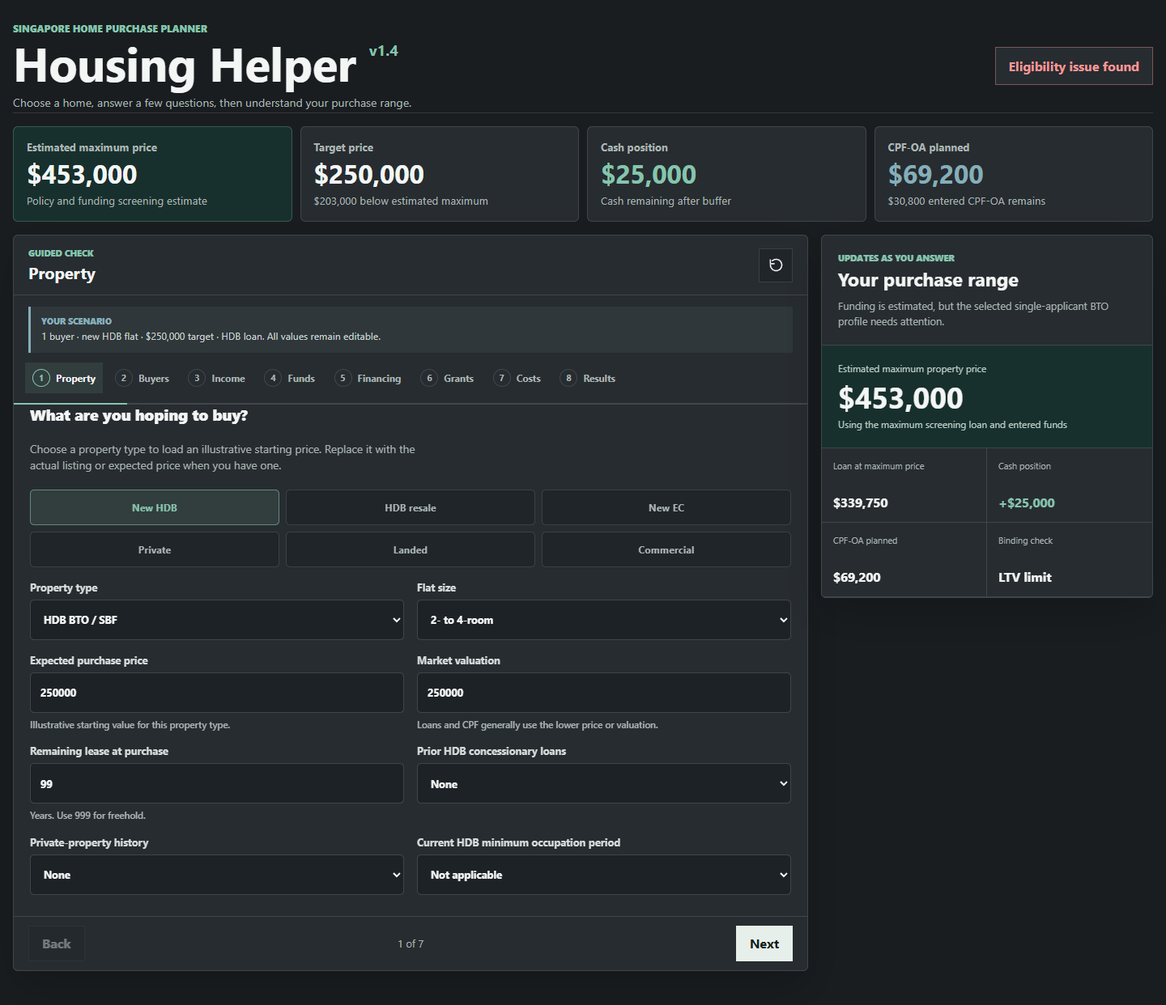
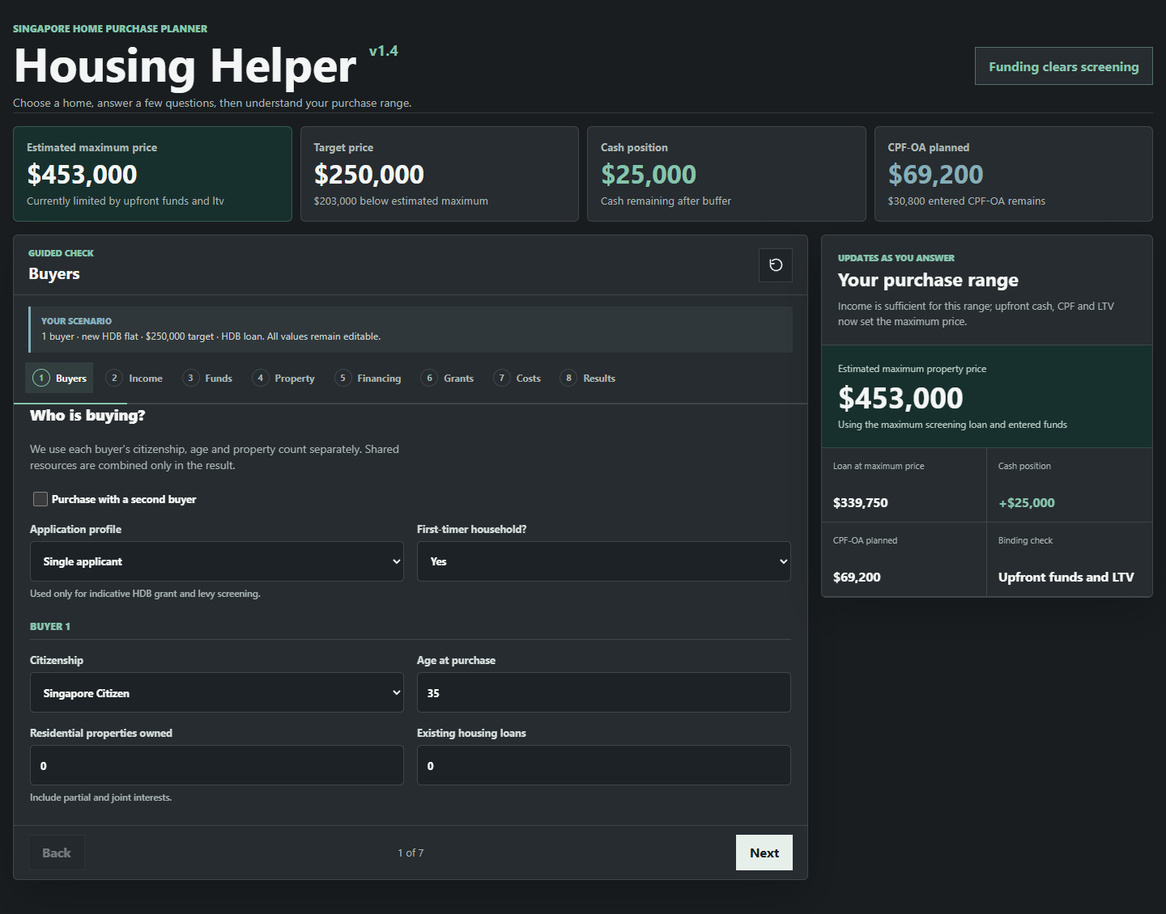
Clarify mortgage assessment and repayment rates

diff --git a/app.js b/app.js
@@ -140,7 +140,7 @@ function grantEstimate(input) {
   const ehgCeiling = single ? 4500 : 9000;
   if (hdbPurchase && firstTimer && citizenshipEligible && hh.grossIncome <= ehgCeiling) ehgPotential = single ? singleEhgAmount(hh.grossIncome) : ehgAmount(hh.grossIncome);
   if (input.propertyType === "hdbResale" && firstTimer && citizenshipEligible) {
-    const ceiling = single ? 7000 : input.applicantProfile === "jointSingles" ? 14000 : 14000;
+    const ceiling = single ? 8000 : 16000;
     if (hh.grossIncome <= ceiling) resaleGrantPotential = single ? (input.flatSize === "small" ? 40000 : 25000) : (input.flatSize === "small" ? 80000 : 50000);
     const citizenships = hh.buyers.map((buyer) => buyer.citizenship);
     if (resaleGrantPotential && citizenships.includes("sc") && citizenships.includes("spr")) {
@@ -270,6 +270,7 @@ function routeAssessment(input, route) {
       }
     }
   } else {
+    assessmentRate = Math.max(assessmentRate, .04);
     const threshold = hdbProperty ? 30 : 35;
     const longLoan = input.loanTenure > threshold || buyers(input).some((buyer) => buyer.age + input.loanTenure > 65);
     const loanCount = hh.housingLoans;
@@ -390,7 +391,8 @@ function financeCard(route, selected) {
   const names = { bank: "Bank loan", hdb: "HDB loan", cash: "No loan" };
   const pros = route.route === "hdb" ? "Stable concessionary rate; no early repayment penalty" : route.route === "bank" ? "Fixed or floating packages; available across residential types" : "No interest or mortgage approval";
   const limits = route.route === "hdb" ? "HDB eligibility, income, age, lease and HFE rules" : route.route === "bank" ? "LTV, TDSR/MSR, credit checks, lock-ins and rate changes" : "Largest upfront funding requirement";
-  return `<article class="finance-card ${selected ? "selected" : ""} ${route.available ? "" : "unavailable"}"><div><span>${names[route.route]}</span><em>${route.status}</em></div><strong>${money(route.maximumLoan)}</strong><small>Maximum loan for current target</small><dl><dt>Expected payment</dt><dd>${money(route.expectedPayment)}/mo</dd><dt>Useful because</dt><dd>${pros}</dd><dt>Watch for</dt><dd>${limits}</dd></dl></article>`;
+  const repaymentLabel = route.route === "cash" ? "Monthly repayment" : `Repayment at ${(route.actualRate * 100).toFixed(2)}%`;
+  return `<article class="finance-card ${selected ? "selected" : ""} ${route.available ? "" : "unavailable"}"><div><span>${names[route.route]}</span><em>${route.status}</em></div><strong>${money(route.maximumLoan)}</strong><small>Maximum loan for current target</small><dl><dt>${repaymentLabel}</dt><dd>${money(route.expectedPayment)}/mo</dd><dt>Useful because</dt><dd>${pros}</dd><dt>Watch for</dt><dd>${limits}</dd></dl></article>`;
 }
 
 function policyCard(title, value, description, href, source) {
@@ -409,7 +411,8 @@ function render() {
   const maximumUsableLoan = ceiling > 0 ? ceilingOutput.selected.loan : 0;
   const priceDelta = input.purchasePrice - ceiling;
   const binding = output.selected.route === "cash" ? "No loan" : output.selected.ltvCap <= output.selected.servicingCap ? "LTV limit" : "Servicing limit";
-  const singleBtoIssue = input.propertyType === "hdbBto" && input.applicantProfile === "single" && (output.hh.grossIncome > 7000 || input.flatSize !== "small");
+  const maximumConstraint = !output.selected.available ? output.selected.status : ceilingOutput.selected.route === "cash" ? "Available cash and CPF" : ceilingOutput.selected.servicingCap <= ceilingOutput.selected.ltvCap + 1000 ? "Income and debt capacity" : "Upfront funds and LTV";
+  const singleBtoIssue = input.propertyType === "hdbBto" && input.applicantProfile === "single" && (output.hh.grossIncome > 8000 || input.flatSize !== "small");
   document.body.classList.toggle("has-second-buyer", input.hasSecondBuyer);
   document.body.classList.toggle("is-hdb", hdbTypes.has(input.propertyType));
   document.body.classList.toggle("is-resale", input.propertyType === "hdbResale");
@@ -448,7 +451,7 @@ function render() {
   $("grantNotice").textContent = output.grants.total > 0 ? `${money(output.grants.total)} in selected indicative grants is included in this projection.` : "No indicative grant is currently included. Your HFE letter remains the source of truth.";
 
   $("maxPrice").textContent = money(ceiling);
-  $("maxPriceReason").textContent = output.selected.available ? "Policy and funding screening estimate" : output.selected.status;
+  $("maxPriceReason").textContent = output.selected.available ? `Currently limited by ${maximumConstraint.toLowerCase()}` : output.selected.status;
   $("summaryTargetPrice").textContent = money(input.purchasePrice);
   $("targetVsMax").textContent = priceDelta > 0 ? `${money(priceDelta)} above estimated maximum` : `${money(Math.abs(priceDelta))} below estimated maximum`;
   $("cashGap").textContent = money(Math.abs(output.cashSurplus));
@@ -467,8 +470,8 @@ function render() {
   $("liveCashPosition").textContent = `${output.cashSurplus >= 0 ? "+" : "-"}${money(Math.abs(output.cashSurplus))}`;
   $("liveCashPosition").className = output.cashSurplus >= 0 ? "positive" : "negative";
   $("liveCpfPlanned").textContent = money(output.cpfBalanceUsed);
-  $("liveConstraint").textContent = binding;
-  $("liveStatus").textContent = !output.selected.available ? output.selected.reason : singleBtoIssue ? "Funding is estimated, but the selected single-applicant BTO profile needs attention." : output.cashSurplus < 0 ? `${money(-output.cashSurplus)} more cash is needed for the current target.` : `${money(output.cashSurplus)} remains after your selected buffer.`;
+  $("liveConstraint").textContent = maximumConstraint;
+  $("liveStatus").textContent = !output.selected.available ? output.selected.reason : singleBtoIssue ? `Funding is estimated, but the BTO profile needs attention. Maximum price is limited by ${maximumConstraint.toLowerCase()}.` : maximumConstraint === "Income and debt capacity" ? "Income and monthly debts currently set the maximum price." : "Income is sufficient for this range; upfront cash, CPF and LTV now set the maximum price.";
 
   const viable = output.viable;
   $("overallStatus").textContent = !output.selected.available ? output.selected.status : singleBtoIssue ? "Eligibility issue found" : viable ? "Funding clears screening" : "Funding gap found";
@@ -477,7 +480,7 @@ function render() {
   $("diagnosisDetail").textContent = !output.selected.available
     ? output.selected.reason
     : singleBtoIssue
-      ? `${money(output.hh.grossIncome)} monthly income is above the current $7,000 screen for a single applicant buying a 99-year 2-room Flexi BTO. Funding figures remain illustrative.`
+      ? `${money(output.hh.grossIncome)} monthly income is above the current $8,000 screen for a single applicant buying a 99-year 2-room Flexi BTO. Funding figures remain illustrative.`
     : viable
       ? `${money(output.cashSurplus)} cash remains after the selected buffers. Your screening ceiling is ${money(ceiling)}.`
       : `The entered target is ${money(Math.max(0, priceDelta))} above the estimated maximum and needs ${money(Math.max(0, -output.cashSurplus))} more upfront cash under these assumptions.`;
@@ -505,11 +508,11 @@ function render() {
     row("Servicing cap", money(output.selected.servicingCap)),
     row("Maximum loan for current target", money(output.selected.maximumLoan)),
     row("Maximum loan at estimated property limit", money(maximumUsableLoan)),
-    row("Expected monthly instalment", money(output.selected.expectedPayment)),
-    row("Assessment monthly instalment", money(output.selected.assessedPayment)),
+    row(`Estimated monthly repayment at ${(output.selected.actualRate * 100).toFixed(2)}%`, `${money(output.selected.expectedPayment)}/month`),
+    row(`Eligibility-only repayment test at ${(output.selected.assessmentRate * 100).toFixed(2)}%`, `${money(output.selected.assessedPayment)}/month`),
     row("Tenure used", `${output.selected.tenure || 0} years`)
   ].join("");
-  $("loanNotice").textContent = `${output.selected.reason}. The ${(output.selected.actualRate * 100).toFixed(2)}% expected rate is an editable planning assumption, not a lender quote. The ${(output.selected.assessmentRate * 100).toFixed(2)}% rate is used for eligibility screening. Self-employed income recognition is your scenario assumption, not a universal lender haircut.`;
+  $("loanNotice").textContent = `${output.selected.reason}. Your estimated monthly repayment uses the ${(output.selected.actualRate * 100).toFixed(2)}% actual mortgage-rate assumption. The ${(output.selected.assessmentRate * 100).toFixed(2)}% stress-test rate is used only for eligibility screening and is not the rate charged on the loan. Self-employed income recognition is your scenario assumption, not a universal lender haircut.`;
 
   $("policyRows").innerHTML = [
     policyCard("Indicative housing grants", money(output.grants.total), `EHG ${money(output.grants.ehg)}, resale grant ${money(output.grants.resaleGrant)}, proximity grant ${money(output.grants.proximityGrant)}. Final eligibility comes from HFE.`, "https://www.hdb.gov.sg/buying-a-flat/flat-grant-and-loan-eligibility", "HDB grants and eligibility"),
@@ -533,9 +536,9 @@ function render() {
     eligibility.push(check("HDB property history", input.privatePropertyStatus === "none" || input.privatePropertyStatus === "cleared" ? "pass" : "fail", input.privatePropertyStatus === "recent" ? "A 30-month disposal period is screened; confirm the applicable flat classification and exceptions through HFE." : input.privatePropertyStatus === "current" ? "A current private-property interest generally prevents this HDB loan or grant screen." : "No current disqualifying private-property history was declared."));
     eligibility.push(check("Prior HDB loans and MOP", Number(input.priorHdbLoans) < 2 && input.mopStatus !== "notMet" ? "pass" : "fail", `${input.priorHdbLoans} prior HDB concessionary loan(s) declared; MOP status: ${input.mopStatus === "na" ? "not applicable" : input.mopStatus === "met" ? "completed" : "not completed"}.`));
   }
-  if (input.propertyType === "hdbBto" && input.applicantProfile === "single") eligibility.push(check("Single-applicant BTO income ceiling", output.hh.grossIncome <= 7000 ? "pass" : "fail", `${money(output.hh.grossIncome)} entered against the current $7,000 screen for a 99-year 2-room Flexi flat. Confirm the project and flat type through HFE.`));
+  if (input.propertyType === "hdbBto" && input.applicantProfile === "single") eligibility.push(check("Single-applicant BTO income ceiling", output.hh.grossIncome <= 8000 ? "pass" : "fail", `${money(output.hh.grossIncome)} entered against the current $8,000 screen for a 99-year 2-room Flexi flat. Confirm the project and flat type through HFE.`));
   if (!hdbTypes.has(input.propertyType) && input.mopStatus !== "na") eligibility.push(check("Current HDB MOP", input.mopStatus === "met" ? "pass" : "fail", input.mopStatus === "met" ? "Completed, based on your declaration." : "A further residential purchase is generally not available before completing the MOP."));
-  if (input.propertyType === "ec") eligibility.push(check("New EC income ceiling", output.hh.grossIncome <= 16000 ? "pass" : "fail", `${money(output.hh.grossIncome)} gross monthly household income entered against the $16,000 screen. Other EC scheme conditions still require HFE.`));
+  if (input.propertyType === "ec") eligibility.push(check("New EC income ceiling", output.hh.grossIncome <= 18000 ? "pass" : "fail", `${money(output.hh.grossIncome)} gross monthly household income entered against the $18,000 screen for qualifying new EC launches from 24 August 2026. Earlier projects may retain the $16,000 ceiling; confirm through HFE.`));
   $("eligibilityRows").innerHTML = eligibility.join("");
   $("eligibilityNotice").textContent = "This is a planning screen, not an approval. Family nucleus, first-timer status, prior subsidies, disposal waiting periods, MOP, credit assessment, ABSD remissions and exact CPF limits require official confirmation.";
 }

diff --git a/index.html b/index.html
@@ -25,29 +25,14 @@
     <section class="workspace">
       <form class="panel inputs" id="plannerForm" novalidate>
         <div class="panel-head">
-          <div><p class="panel-kicker">Guided check</p><h2 id="stepTitle">Property</h2></div>
+          <div><p class="panel-kicker">Guided check</p><h2 id="stepTitle">Buyers</h2></div>
           <button type="button" class="icon-button" id="resetBtn" title="Reset sample profile" aria-label="Reset sample profile"><svg viewBox="0 0 24 24" aria-hidden="true"><path d="M3 12a9 9 0 1 0 3-6.7"/><path d="M3 4v6h6"/></svg></button>
         </div>
         <div class="scenario-note"><span>Your scenario</span><p id="scenarioSummary">One buyer planning an HDB purchase.</p></div>
         <nav class="step-rail" id="stepRail" aria-label="Planner steps"></nav>
         <div class="step-progress"><span id="progressBar"></span></div>
 
-        <fieldset class="step-card active" data-step-title="Property">
-          <legend>What are you hoping to buy?</legend>
-          <p class="section-copy wide">Choose a property type to load an illustrative starting price. Replace it with the actual listing or expected price when you have one.</p>
-          <div class="choice-grid property-choices wide" role="group" aria-label="Property type shortcuts"><button type="button" data-property="hdbBto">New HDB</button><button type="button" data-property="hdbResale">HDB resale</button><button type="button" data-property="ec">New EC</button><button type="button" data-property="privateCondo">Private</button><button type="button" data-property="landed">Landed</button><button type="button" data-property="commercial">Commercial</button></div>
-          <label>Property type<select id="propertyType"><option value="hdbBto">HDB BTO / SBF</option><option value="hdbResale">HDB resale flat</option><option value="ec">New executive condominium</option><option value="privateCondo">Private condominium / apartment</option><option value="landed">Landed residential</option><option value="commercial">Commercial / industrial</option><option value="mixed">Mixed commercial and residential</option></select></label>
-          <label class="hdb-field">Flat size<select id="flatSize"><option value="small">2- to 4-room</option><option value="large">5-room or larger</option></select></label>
-          <label>Expected purchase price<input id="purchasePrice" type="number" min="0" step="1000" value="250000"><small id="pricePresetNote">Illustrative starting value for this property type.</small></label>
-          <label>Market valuation<input id="marketValue" type="number" min="0" step="1000" value="250000"><small>Loans and CPF generally use the lower price or valuation.</small></label>
-          <label>Remaining lease at purchase<input id="remainingLease" type="number" min="0" max="999" step="1" value="99"><small>Years. Use 999 for freehold.</small></label>
-          <label class="mixed-field">Residential value share<input id="residentialShare" type="range" min="0" max="100" step="5" value="100"><span class="range-readout" id="residentialShareReadout">100%</span></label>
-          <label class="hdb-field">Prior HDB concessionary loans<select id="priorHdbLoans"><option value="0">None</option><option value="1">One</option><option value="2">Two or more</option></select></label>
-          <label class="hdb-field">Private-property history<select id="privatePropertyStatus"><option value="none">None</option><option value="current">Currently own an interest</option><option value="recent">Disposed within the last 30 months</option><option value="cleared">Disposed more than 30 months ago</option></select></label>
-          <label>Current HDB minimum occupation period<select id="mopStatus"><option value="na">Not applicable</option><option value="met">Completed</option><option value="notMet">Not completed</option></select></label>
-        </fieldset>
-
-        <fieldset class="step-card" data-step-title="Buyers">
+        <fieldset class="step-card active" data-step-title="Buyers">
           <legend>Who is buying?</legend>
           <p class="section-copy wide">We use each buyer's citizenship, age and property count separately. Shared resources are combined only in the result.</p>
           <label class="check-row wide"><input id="hasSecondBuyer" type="checkbox"> Purchase with a second buyer</label>
@@ -103,14 +88,29 @@
           <label class="buyer2-input">Net sale proceeds<input id="saleProceeds2" type="number" min="0" step="1000" value="0"></label>
         </fieldset>
 
+        <fieldset class="step-card" data-step-title="Property">
+          <legend>What are you hoping to buy?</legend>
+          <p class="section-copy wide">Your profile and resources have shaped the live range. Now choose a property type and replace the illustrative price with an actual listing when you have one.</p>
+          <div class="choice-grid property-choices wide" role="group" aria-label="Property type shortcuts"><button type="button" data-property="hdbBto">New HDB</button><button type="button" data-property="hdbResale">HDB resale</button><button type="button" data-property="ec">New EC</button><button type="button" data-property="privateCondo">Private</button><button type="button" data-property="landed">Landed</button><button type="button" data-property="commercial">Commercial</button></div>
+          <label>Property type<select id="propertyType"><option value="hdbBto">HDB BTO / SBF</option><option value="hdbResale">HDB resale flat</option><option value="ec">New executive condominium</option><option value="privateCondo">Private condominium / apartment</option><option value="landed">Landed residential</option><option value="commercial">Commercial / industrial</option><option value="mixed">Mixed commercial and residential</option></select></label>
+          <label class="hdb-field">Flat size<select id="flatSize"><option value="small">2- to 4-room</option><option value="large">5-room or larger</option></select></label>
+          <label>Expected purchase price<input id="purchasePrice" type="number" min="0" step="1000" value="250000"><small id="pricePresetNote">Illustrative starting value for this property type.</small></label>
+          <label>Market valuation<input id="marketValue" type="number" min="0" step="1000" value="250000"><small>Loans and CPF generally use the lower price or valuation.</small></label>
+          <label>Remaining lease at purchase<input id="remainingLease" type="number" min="0" max="999" step="1" value="99"><small>Years. Use 999 for freehold.</small></label>
+          <label class="mixed-field">Residential value share<input id="residentialShare" type="range" min="0" max="100" step="5" value="100"><span class="range-readout" id="residentialShareReadout">100%</span></label>
+          <label class="hdb-field">Prior HDB concessionary loans<select id="priorHdbLoans"><option value="0">None</option><option value="1">One</option><option value="2">Two or more</option></select></label>
+          <label class="hdb-field">Private-property history<select id="privatePropertyStatus"><option value="none">None</option><option value="current">Currently own an interest</option><option value="recent">Disposed within the last 30 months</option><option value="cleared">Disposed more than 30 months ago</option></select></label>
+          <label>Current HDB minimum occupation period<select id="mopStatus"><option value="na">Not applicable</option><option value="met">Completed</option><option value="notMet">Not completed</option></select></label>
+        </fieldset>
+
         <fieldset class="step-card" data-step-title="Financing">
           <legend>Financing route</legend>
           <p class="section-copy wide">Compare an HDB concessionary loan, bank loan and no-loan route. Unsupported routes are shown as unavailable rather than silently substituted.</p>
           <div class="choice-grid finance-choices wide" role="group" aria-label="Financing route shortcuts"><button type="button" data-loan="bank">Bank loan</button><button type="button" data-loan="hdb">HDB loan</button><button type="button" data-loan="cash">No loan</button></div>
           <label>Selected route<select id="loanType"><option value="bank">Bank / financial institution loan</option><option value="hdb">HDB housing loan</option><option value="cash">No loan</option></select></label>
           <label>Preferred tenure<input id="loanTenure" type="number" min="1" max="35" step="1" value="25"></label>
-          <label>Expected mortgage rate<input id="actualInterestRate" type="number" min="0" step="0.05" value="2.6"><small>Used for the expected monthly instalment.</small></label>
-          <label>Assessment rate<input id="assessmentRate" type="number" min="0" step="0.05" value="3.0"><small>Used only for servicing-cap screening.</small></label>
+          <label><span class="label-heading">Actual mortgage rate <span class="rate-tag">Repayment</span></span><input id="actualInterestRate" type="number" min="0" step="0.05" value="2.6"><small>Your estimated monthly repayment is calculated at this rate.</small></label>
+          <label><span class="label-heading">Eligibility stress-test rate <span class="help-tooltip" tabindex="0" aria-describedby="assessmentRateTip">i<span class="tooltip-content" id="assessmentRateTip" role="tooltip">This is not the rate charged on your loan. It is used only to test loan eligibility: 3% for an HDB loan and at least 4% for a residential bank loan under the current screening assumptions.</span></span></span><input id="assessmentRate" type="number" min="3" step="0.05" value="3.0"><small>Used only to estimate the maximum loan, not your monthly repayment.</small></label>
           <details class="advanced wide"><summary>Advanced loan preference</summary><div class="advanced-grid"><label>Desired loan amount<input id="desiredLoan" type="number" min="0" step="1000" value="187500"></label><label class="check-row"><input id="useMaxLoan" type="checkbox" checked> Use maximum screening loan</label></div></details>
         </fieldset>
 

diff --git a/tests/browser-check.js b/tests/browser-check.js
@@ -20,10 +20,11 @@ const assert = require("node:assert/strict");
   assert.equal(await page.locator("#purchasePrice").inputValue(), "250000");
   assert.equal(await page.locator("#liveMaxLoan").textContent(), "$339,750");
   assert.equal(await page.locator("#liveMaxPrice").textContent(), "$453,000");
-  assert.equal(await page.locator("#overallStatus").textContent(), "Eligibility issue found");
+  assert.equal(await page.locator("#overallStatus").textContent(), "Funding clears screening");
   assert.equal(await page.locator(".live-preview").isVisible(), true, "quiz shows the live affordability card");
   assert.equal(await page.locator(".results").isVisible(), false, "full analytics wait for the results step");
 
+  await page.locator("#stepRail button").filter({ hasText: "Property" }).click();
   await page.locator("button[data-property='hdbResale']").click();
   assert.equal(await page.locator("#purchasePrice").inputValue(), "550000", "property selection loads its starting price");
   await page.locator("#purchasePrice").fill("600000");
@@ -33,15 +34,19 @@ const assert = require("node:assert/strict");
 
   await page.locator("#stepRail button").filter({ hasText: "Buyers" }).click();
   await page.locator("#hasSecondBuyer").check();
-  assert.equal(await page.locator("#stepCounter").textContent(), "2 of 8");
+  assert.equal(await page.locator("#stepCounter").textContent(), "1 of 8");
   assert.equal(await page.locator("#stepRail button").count(), 9, "second buyer adds one guided step");
   await page.locator("#hasSecondBuyer").uncheck();
 
   await page.locator("#stepRail button").filter({ hasText: "Income" }).click();
+  await page.locator("#monthlyIncome").fill("2000");
+  assert.equal(await page.locator("#liveMaxPrice").textContent(), "$244,000", "maximum price reacts to lower income");
+  assert.equal(await page.locator("#liveConstraint").textContent(), "Income and debt capacity", "income is identified while servicing capacity binds");
+  await page.locator("#monthlyIncome").fill("4000");
+  assert.equal(await page.locator("#liveMaxPrice").textContent(), "$368,000", "maximum price scales as income rises");
   await page.locator("#incomeType").selectOption("selfEmployed");
   assert.equal(await page.locator("#incomeRecognition").inputValue(), "70", "variable income receives an editable planning scenario");
 
-  await page.locator("#monthlyIncome").fill("4000");
   await page.locator("#stepRail button").filter({ hasText: "Property" }).click();
   await page.locator("button[data-property='hdbResale']").click();
   await page.locator("#stepRail button").filter({ hasText: "Grants" }).click();
@@ -62,6 +67,7 @@ const assert = require("node:assert/strict");
   await page.locator("#purchasePrice").dispatchEvent("input");
   await page.locator("button[data-property='privateCondo']").click();
   await page.locator("#stepRail button").filter({ hasText: "Financing" }).click();
+  assert.match(await page.locator("#assessmentRateTip").textContent(), /not the rate charged/i, "stress-test tooltip separates assessment and repayment rates");
   await page.locator("button[data-loan='hdb']").click();
   assert.equal(await page.locator("#loanType").inputValue(), "bank", "invalid HDB route is not silently selected");
   assert.equal(await page.locator("button[data-loan].active").getAttribute("data-loan"), "bank", "financing shortcut matches calculation state");
@@ -71,6 +77,8 @@ const assert = require("node:assert/strict");
   const loanText = await page.locator("#loanRows").innerText();
   assert.match(loanText, /Loan base \(lower price or value\)\s*\$1,000,000/);
   assert.match(loanText, /LTV cap\s*75% · \$750,000/);
+  assert.match(loanText, /Estimated monthly repayment at 3\.00%/);
+  assert.match(loanText, /Eligibility-only repayment test at 4\.00%/);
   assert.equal(await page.locator(".policy-card").count(), 6);
   for (const width of [768, 1024, 1440]) {
     await page.setViewportSize({ width, height: 900 });
@@ -90,6 +98,11 @@ const assert = require("node:assert/strict");
   assert.equal(await mobile.locator(".results").isVisible(), false, "mobile results wait until inputs are complete");
   assert.equal(await mobile.locator(".live-preview").isVisible(), true, "mobile keeps a compact floating preview");
   assert.equal(await mobile.locator(".step-card:visible").count(), 1);
+  await mobile.locator("#stepRail button").filter({ hasText: "Financing" }).click();
+  await mobile.locator(".help-tooltip").focus();
+  const tooltipBox = await mobile.locator("#assessmentRateTip").boundingBox();
+  assert.ok(tooltipBox && tooltipBox.x >= 0 && tooltipBox.x + tooltipBox.width <= 390, `assessment tooltip remains within the mobile viewport: ${JSON.stringify(tooltipBox)}`);
+  await mobile.locator("#stepRail button").filter({ hasText: "Buyers" }).click();
   for (let i = 0; i < 7; i += 1) await mobile.locator("#nextStep").click();
   assert.equal(await mobile.locator("#stepCounter").textContent(), "Results");
   assert.equal(await mobile.locator(".results").isVisible(), true);

diff --git a/tests/calculations.test.js b/tests/calculations.test.js
@@ -57,6 +57,8 @@ assert.equal(hdb.available, true, "qualifying HDB profile is screened");
 assert.equal(hdb.ltv, .75, "current HDB full-lease LTV is 75%");
 assert.equal(hdb.actualRate, .026, "HDB expected rate is distinct");
 assert.equal(hdb.assessmentRate, .03, "HDB assessment rate is distinct");
+assert.equal(hh.routeAssessment(input({ propertyType: "privateCondo", loanType: "bank", assessmentRate: .03 }), "bank").assessmentRate, .04, "bank eligibility assessment enforces the 4% residential floor");
+assert.equal(hh.routeAssessment(input({ propertyType: "privateCondo", loanType: "bank", assessmentRate: .045 }), "bank").assessmentRate, .045, "a higher bank eligibility assessment is preserved");
 assert.equal(hh.routeAssessment(input({ propertyType: "hdbResale", monthlyIncome: 6000, loanTenure: 25, buyerAge: 50 }), "hdb").tenure, 15, "HDB tenure is capped by average buyer age");
 assert.equal(hh.cpfUsageLimit(input({ propertyType: "hdbResale", remainingLease: 19 }), "hdb").limit, 0, "CPF screen blocks leases below 20 years");
 
@@ -66,6 +68,7 @@ assert.equal(grants.resaleGrant, 80000, "indicative resale grant");
 assert.equal(grants.proximityGrant, 20000, "indicative proximity grant");
 assert.equal(hh.grantEstimate(input({ applicantProfile: "single", propertyType: "hdbBto", monthlyIncome: 4000, includeEhg: true })).ehg, 10000, "solo EHG uses the sole-recipient income schedule");
 assert.equal(hh.grantEstimate(input({ applicantProfile: "single", propertyType: "hdbBto", monthlyIncome: 5000, includeEhg: true })).ehg, 0, "solo EHG ceiling is screened separately");
+assert.equal(hh.grantEstimate(input({ applicantProfile: "single", propertyType: "hdbResale", monthlyIncome: 7500, includeResaleGrant: true })).resaleGrant, 40000, "updated single resale-grant ceiling is applied");
 assert.equal(hh.calculate(input({ applicantProfile: "family", propertyType: "hdbBto", priorSubsidised: "4room" })).levy, 40000, "fixed family resale levy screening");
 assert.ok(hh.affordablePrice(input()) > 0, "affordability search returns a usable ceiling");
 
@@ -78,6 +81,10 @@ assert.equal(defaultResult.cashRequired, 25000, "default cash requirement includ
 assert.equal(defaultResult.cashSurplus, 25000, "default profile shows the exact upfront cash surplus");
 assert.equal(hh.affordablePrice(input()), 453000, "default estimated maximum price remains reproducible");
 assert.equal(hh.calculate({ ...input(), purchasePrice: 453000, marketValue: 453000, useMaxLoan: true }).selected.loan, 339750, "maximum affordable price translates to its corresponding maximum usable loan");
+assert.equal(hh.affordablePrice(input({ monthlyIncome: 2000 })), 244000, "maximum price scales down with lower servicing income");
+assert.equal(hh.affordablePrice(input({ monthlyIncome: 4000 })), 368000, "maximum price scales up as servicing income rises");
+assert.equal(hh.affordablePrice(input({ monthlyIncome: 6000 })), 453000, "maximum price reaches the upfront-funding constraint");
+assert.equal(hh.affordablePrice(input({ monthlyIncome: 8000 })), 453000, "maximum price plateaus when income is no longer the binding constraint");
 assert.deepEqual(Object.fromEntries(Object.entries(hh.propertyPresets).map(([key, value]) => [key, value.price])), { hdbBto: 250000, hdbResale: 550000, ec: 1300000, privateCondo: 1500000, landed: 3500000, commercial: 1000000, mixed: 2000000 }, "every property type has a distinct starting price");
 
 const grantFunded = hh.calculate(input({ applicantProfile: "single", propertyType: "hdbResale", purchasePrice: 500000, marketValue: 500000, monthlyIncome: 4000, flatSize: "small", proximity: "near", includeEhg: true, includeResaleGrant: true, includeProximityGrant: true, cpfAvailable: 0, cpfBuffer: 0 }));

diff --git a/styles.css b/styles.css
@@ -71,6 +71,11 @@ legend { grid-column: 1 / -1; padding: 0; font-size: 1.18rem; font-weight: 800; 
 .subsection { min-height: 34px; display: flex; align-items: center; border-bottom: 1px solid var(--line); color: var(--green); font-size: .76rem; font-weight: 800; text-transform: uppercase; }
 label { display: grid; align-content: start; gap: 7px; color: #d4dcda; font-size: .8rem; font-weight: 700; }
 label small { color: var(--muted); font-size: .72rem; line-height: 1.35; font-weight: 500; }
+.label-heading { display: flex; align-items: center; gap: 7px; }
+.rate-tag { padding: 2px 6px; border: 1px solid rgba(134,196,173,.35); border-radius: 3px; color: var(--green); font-size: .6rem; font-weight: 800; text-transform: uppercase; }
+.help-tooltip { position: relative; width: 18px; height: 18px; display: inline-grid; place-items: center; border: 1px solid rgba(218,229,225,.3); border-radius: 50%; color: var(--muted); font-size: .65rem; font-weight: 800; cursor: help; }
+.tooltip-content { position: absolute; z-index: 20; left: 50%; bottom: calc(100% + 9px); width: min(290px, calc(100vw - 48px)); padding: 10px 11px; border: 1px solid rgba(218,229,225,.22); border-radius: 4px; background: #111619; color: #dce4e1; box-shadow: 0 12px 30px rgba(0,0,0,.35); font-size: .7rem; font-weight: 500; line-height: 1.45; opacity: 0; pointer-events: none; transform: translate(-50%, 4px); transition: opacity 140ms ease-out, transform 140ms ease-out; }
+.help-tooltip:hover .tooltip-content, .help-tooltip:focus .tooltip-content, .help-tooltip:focus-within .tooltip-content { opacity: 1; transform: translate(-50%, 0); }
 input, select { width: 100%; min-height: 50px; border: 1px solid rgba(218,229,225,.18); border-radius: 5px; background: #1d2226; color: var(--ink); padding: 10px 12px; font-weight: 680; font-variant-numeric: tabular-nums; transition: border-color 150ms ease-out, background 150ms ease-out, box-shadow 150ms ease-out; }
 input:hover, select:hover { background: var(--field-hover); border-color: rgba(218,229,225,.28); }
 input:focus, select:focus, button:focus-visible { outline: 3px solid rgba(134,196,173,.28); outline-offset: 1px; }
@@ -222,6 +227,8 @@ input[type="range"] { padding: 0; accent-color: var(--green); }
   .step-card { min-height: 0; grid-template-columns: 1fr; padding: 22px 16px 24px; }
   .wide { grid-column: auto; }
   .choice-grid, .finance-choices, .live-strip, .advanced-grid, .reno-choices { grid-template-columns: 1fr; }
+  .tooltip-content { left: -190px; right: auto; transform: translateY(4px); }
+  .help-tooltip:hover .tooltip-content, .help-tooltip:focus .tooltip-content, .help-tooltip:focus-within .tooltip-content { transform: translateY(0); }
   .step-rail { padding-inline: 10px; }
   .step-rail button { padding-inline: 7px; }
   .step-rail button:not(.active) { font-size: 0; gap: 0; }
@@ -233,7 +240,8 @@ input[type="range"] { padding: 0; accent-color: var(--green); }
   .live-preview-primary small { display: none; }
   .live-preview-grid { grid-template-columns: 1fr; }
   .live-preview-grid div { min-height: 48px; padding: 8px 12px; border-right: 0; }
-  .live-preview-grid div:nth-child(n+3) { display: none; }
+  .live-preview-grid div:nth-child(2),
+  .live-preview-grid div:nth-child(3) { display: none; }
   .live-preview-grid span { font-size: .62rem; }
   .live-preview-grid strong { font-size: .82rem; }
   .results-ready .live-preview { display: none; }

diff --git a/AGENTS.md b/AGENTS.md
@@ -27,12 +27,14 @@ Confirmed 15 September 2026:
 
 Confirmed 16 September 2026:
 
-- Start the guided journey with the property goal, then progressively collect buyer, income, funds, financing, grant and move-in information.
+- Start the guided journey with buyers, income and funds before asking for the property goal, then collect financing, grant and move-in information.
 - During the quiz, keep a compact floating affordability card showing maximum loan, estimated maximum property price, cash position and the binding constraint. Reserve full analytics for the final results view.
 - Use property-specific illustrative starting prices and update them when the property type changes, while preserving values the user has manually edited.
 - Present renovation scopes as visible choices with their assumed rates, inclusions and live estimated totals; reveal custom inputs only when relevant.
 - Show only housing grants relevant to the selected property and application profile. Let users choose whether to include an indicative grant and never imply HFE confirmation.
 - The default example is a first-timer single applicant aged 35, earning $8,000 monthly with no monthly debt, $100,000 cash and $120,000 CPF-OA, considering an HDB BTO/SBF flat.
+- When maximum property price stops increasing with income, explain the active constraint clearly; income affects affordability only until servicing capacity is no longer the binding limit.
+- Keep actual mortgage rates and eligibility stress-test rates visually and mathematically separate. Monthly repayment figures must use the actual-rate assumption and state that rate explicitly.
 
 ## Shared Design Language
 

diff --git a/README.md b/README.md
@@ -4,7 +4,7 @@ A dependency-free Singapore home-purchase screening tool. It guides one or two b
 
 ## What v1.4 adds
 
-- A property-first quiz with a compact live affordability card and a separate final analytics view.
+- A profile-first quiz ordered as Buyers, Income, Funds and Property, with a compact live affordability card and separate final analytics.
 - Requested single-applicant defaults plus property-specific illustrative price and floor-area presets.
 - Clearly separated maximum-loan and maximum-property-price estimates.
 - Conditional, user-selected HDB grant scenarios with a grant-specific funding waterfall.
